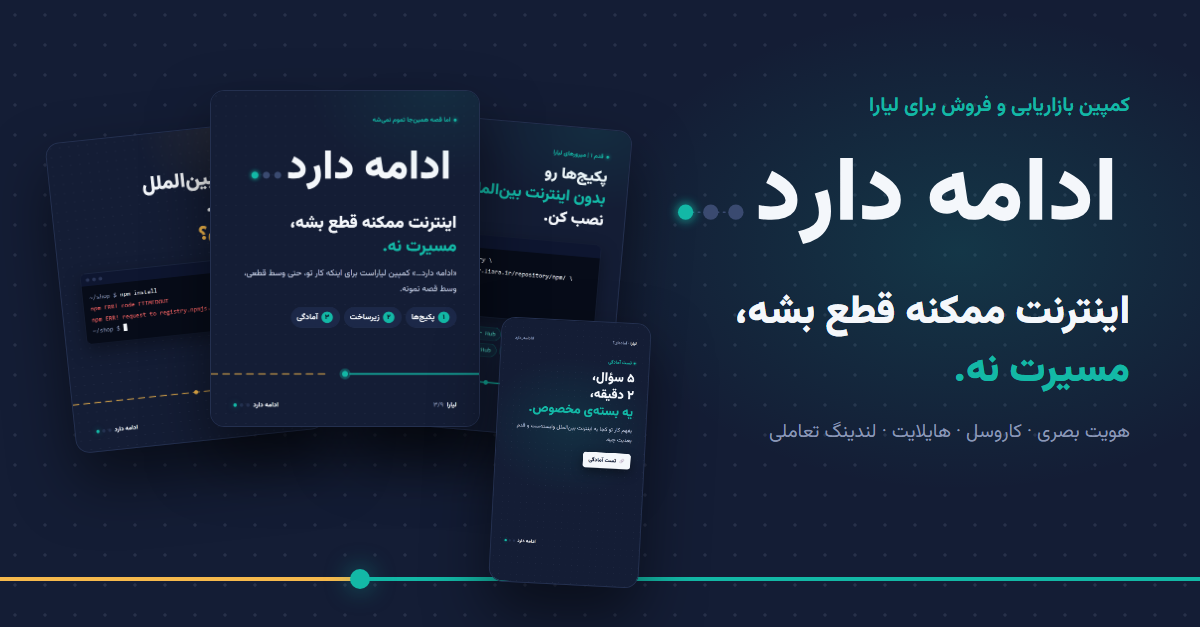
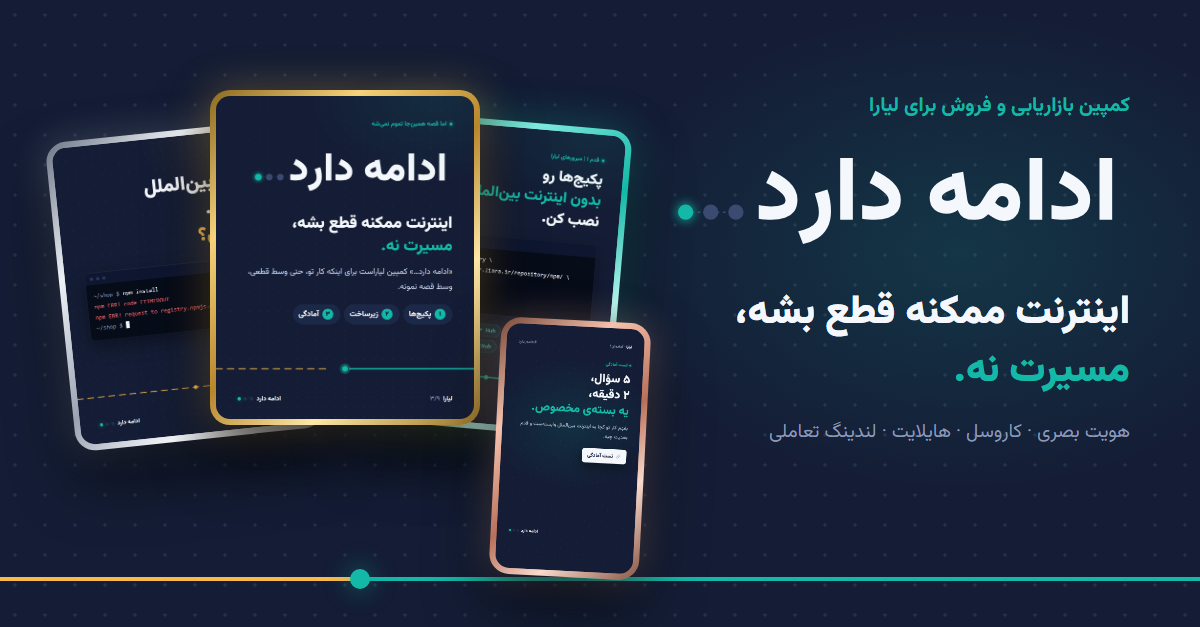
LinkedIn cover: gold, silver, teal and rose-gold frames on the cards

Changed region(s): [[0.0308, 0.1212, 0.555, 0.9394]]

diff --git a/linkedin/cover.html b/linkedin/cover.html
@@ -23,14 +23,21 @@
   .st { width: 150px; left: 455px; top: 270px; z-index: 3; transform: rotate(3deg); }
   .line { position: absolute; left: 0; right: 0; bottom: 46px; height: 4px; background: linear-gradient(90deg, var(--amber) 0 30%, var(--teal) 30%); }
   .line::before { content: ""; position: absolute; left: 30%; top: -8px; width: 20px; height: 20px; border-radius: 50%; background: var(--teal); box-shadow: var(--glow); transform: translateX(-50%); }
+  /* Metallic frames: gold (main), silver, teal, rose gold */
+  .deck .card { position: absolute; padding: 6px; border-radius: 20px; box-shadow: 0 30px 60px rgba(0,0,0,.55), var(--halo); }
+  .deck .card img { position: static; display: block; width: 100%; border-radius: 14px; border: 0; box-shadow: none; transform: none; }
+  .gold   { background: linear-gradient(135deg,#8C6A1F,#F6D27A 25%,#B8862B 50%,#FCE7A6 72%,#9A7425); --halo: 0 0 40px rgba(246,185,76,.35); }
+  .silver { background: linear-gradient(135deg,#6E7787,#EEF1F6 25%,#9AA3B2 50%,#F7F9FC 72%,#7C8594); --halo: 0 0 36px rgba(220,228,240,.22); }
+  .teal   { background: linear-gradient(135deg,#0B6F64,#7FEADF 28%,#13B8A6 55%,#B5F5EE 75%,#0E8578); --halo: 0 0 40px rgba(19,184,166,.35); }
+  .rose   { background: linear-gradient(135deg,#7A4A3A,#F4C2AE 28%,#B9705A 55%,#F9DACD 75%,#8A5644); --halo: 0 0 36px rgba(242,184,160,.3); }
 </style>
 </head>
 <body>
   <div class="deck">
-    <img class="s1" src="../carousel/export/slide-01.png" alt="">
-    <img class="s2" src="../carousel/export/slide-04.png" alt="">
-    <img class="s3" src="../carousel/export/slide-03.png" alt="">
-    <img class="st" src="../highlights/export/story-s4-1.png" alt="">
+    <div class="card s1 silver"><img src="../carousel/export/slide-01.png" alt=""></div>
+    <div class="card s2 teal"><img src="../carousel/export/slide-04.png" alt=""></div>
+    <div class="card s3 gold"><img src="../carousel/export/slide-03.png" alt=""></div>
+    <div class="card st rose"><img src="../highlights/export/story-s4-1.png" alt=""></div>
   </div>
   <div class="copy">
     <div class="k">کمپین بازاریابی و فروش برای لیارا</div>
